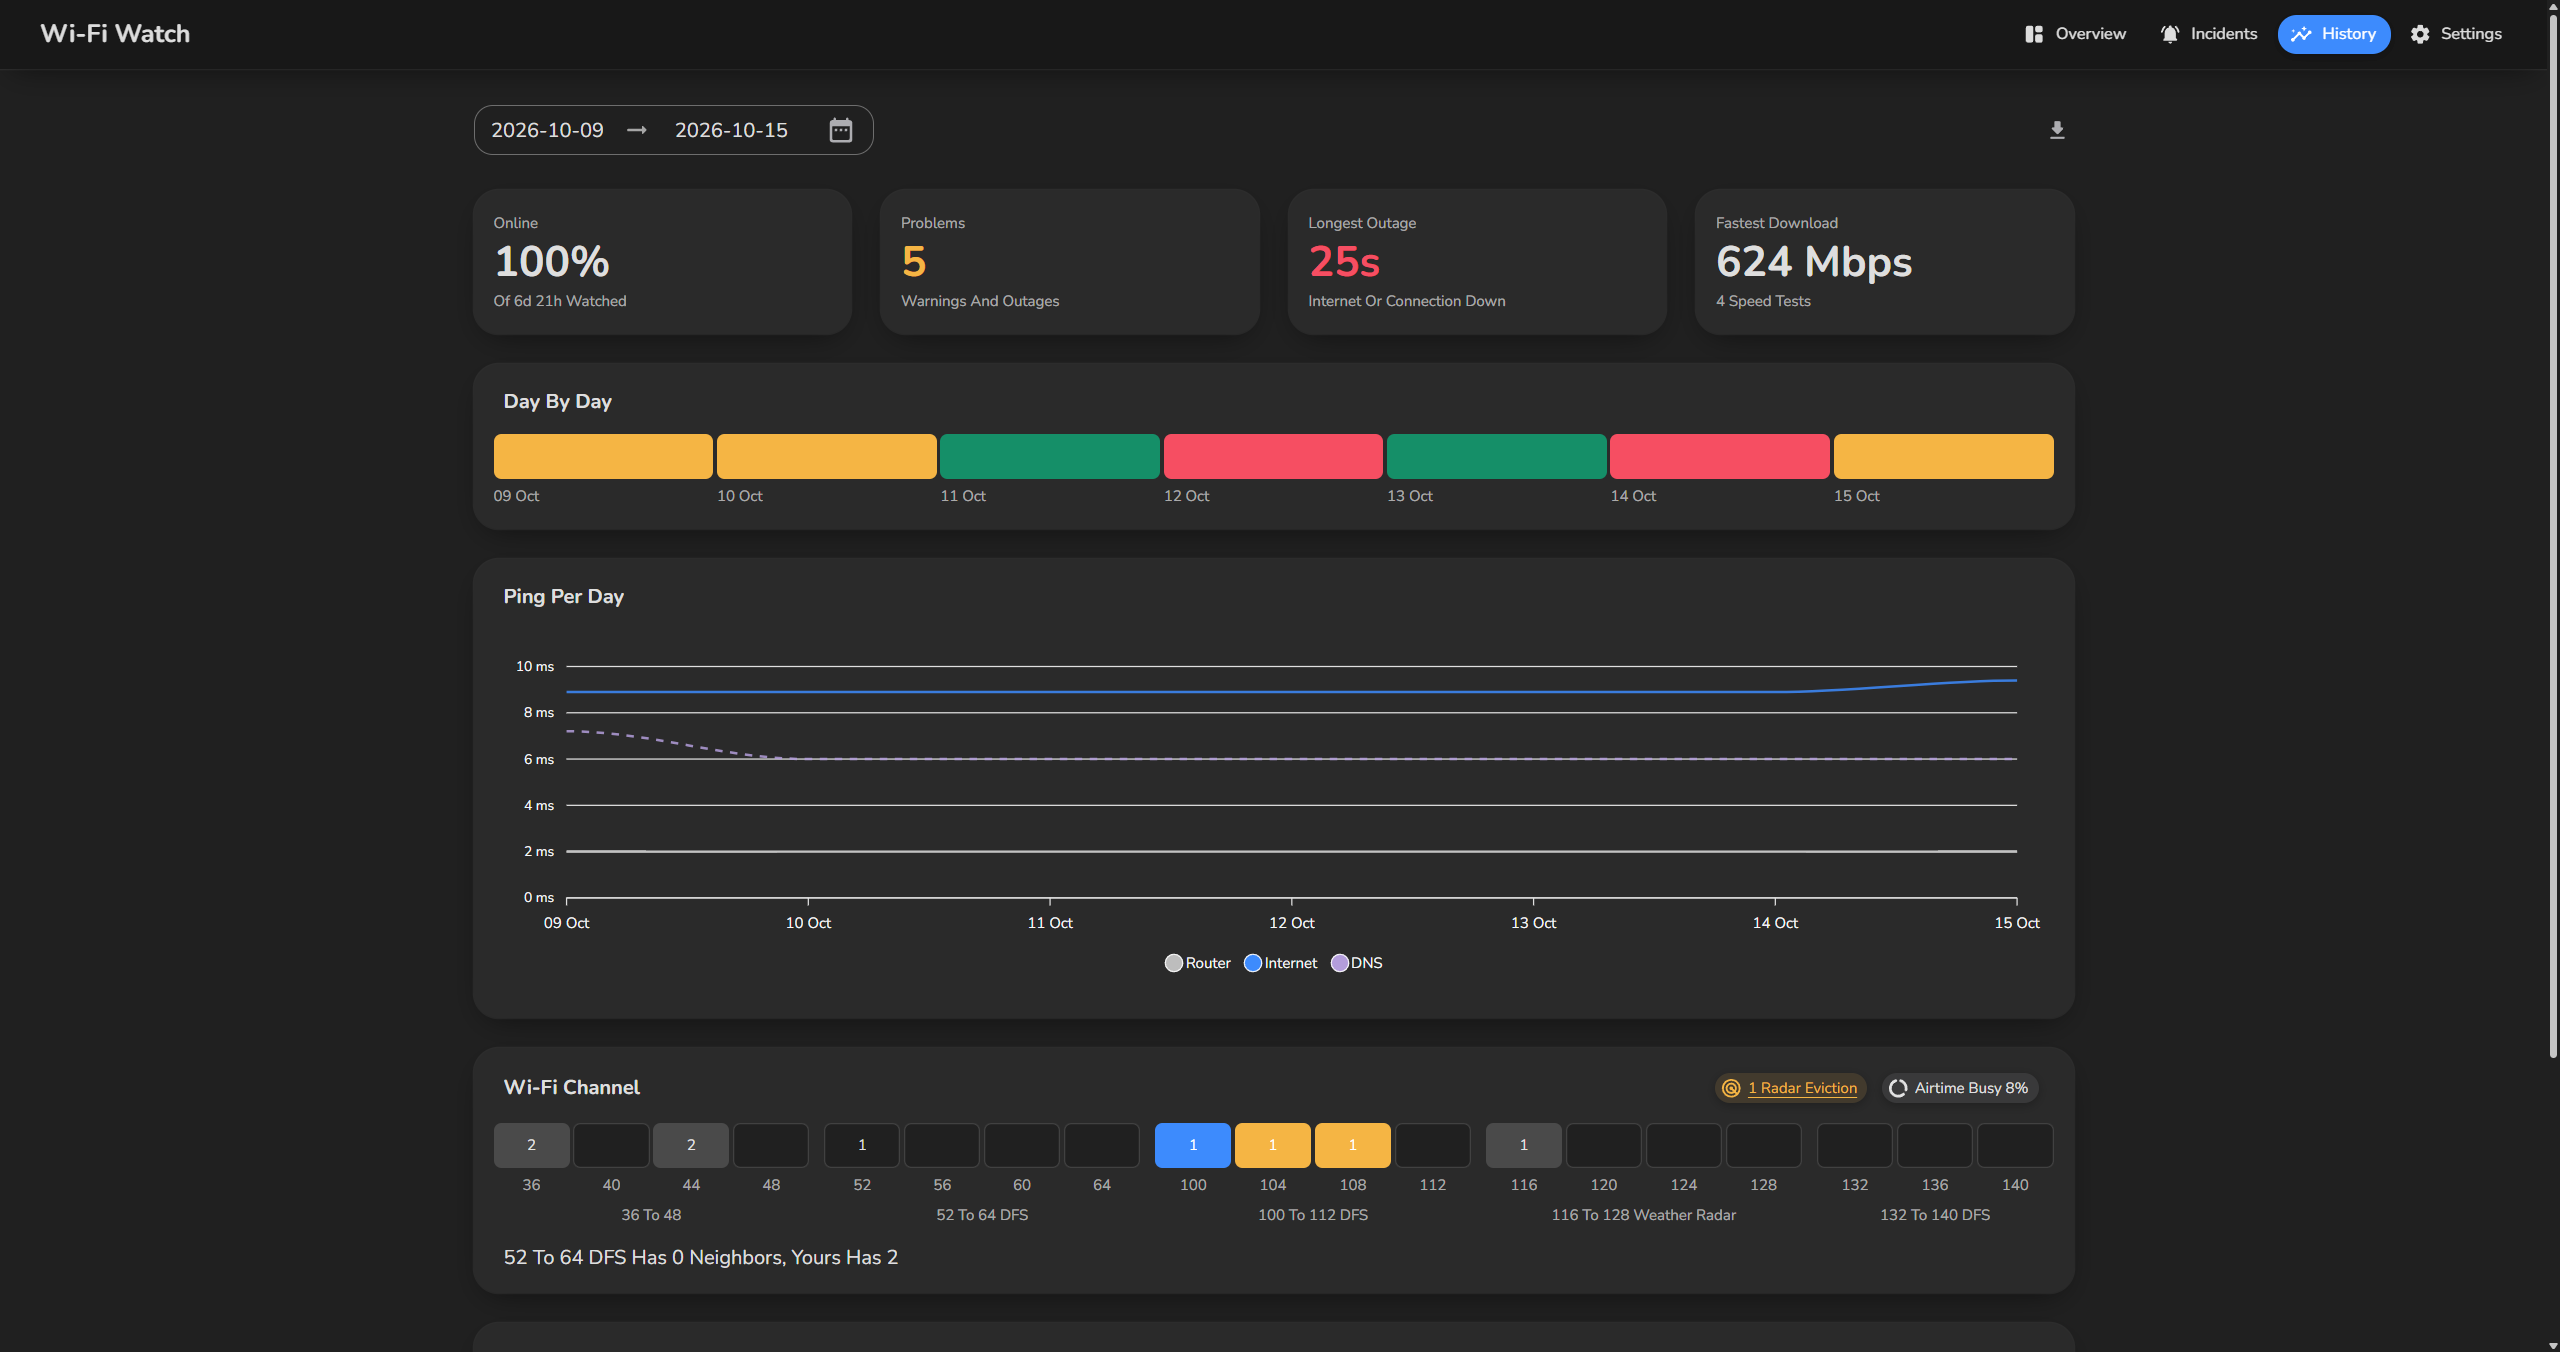
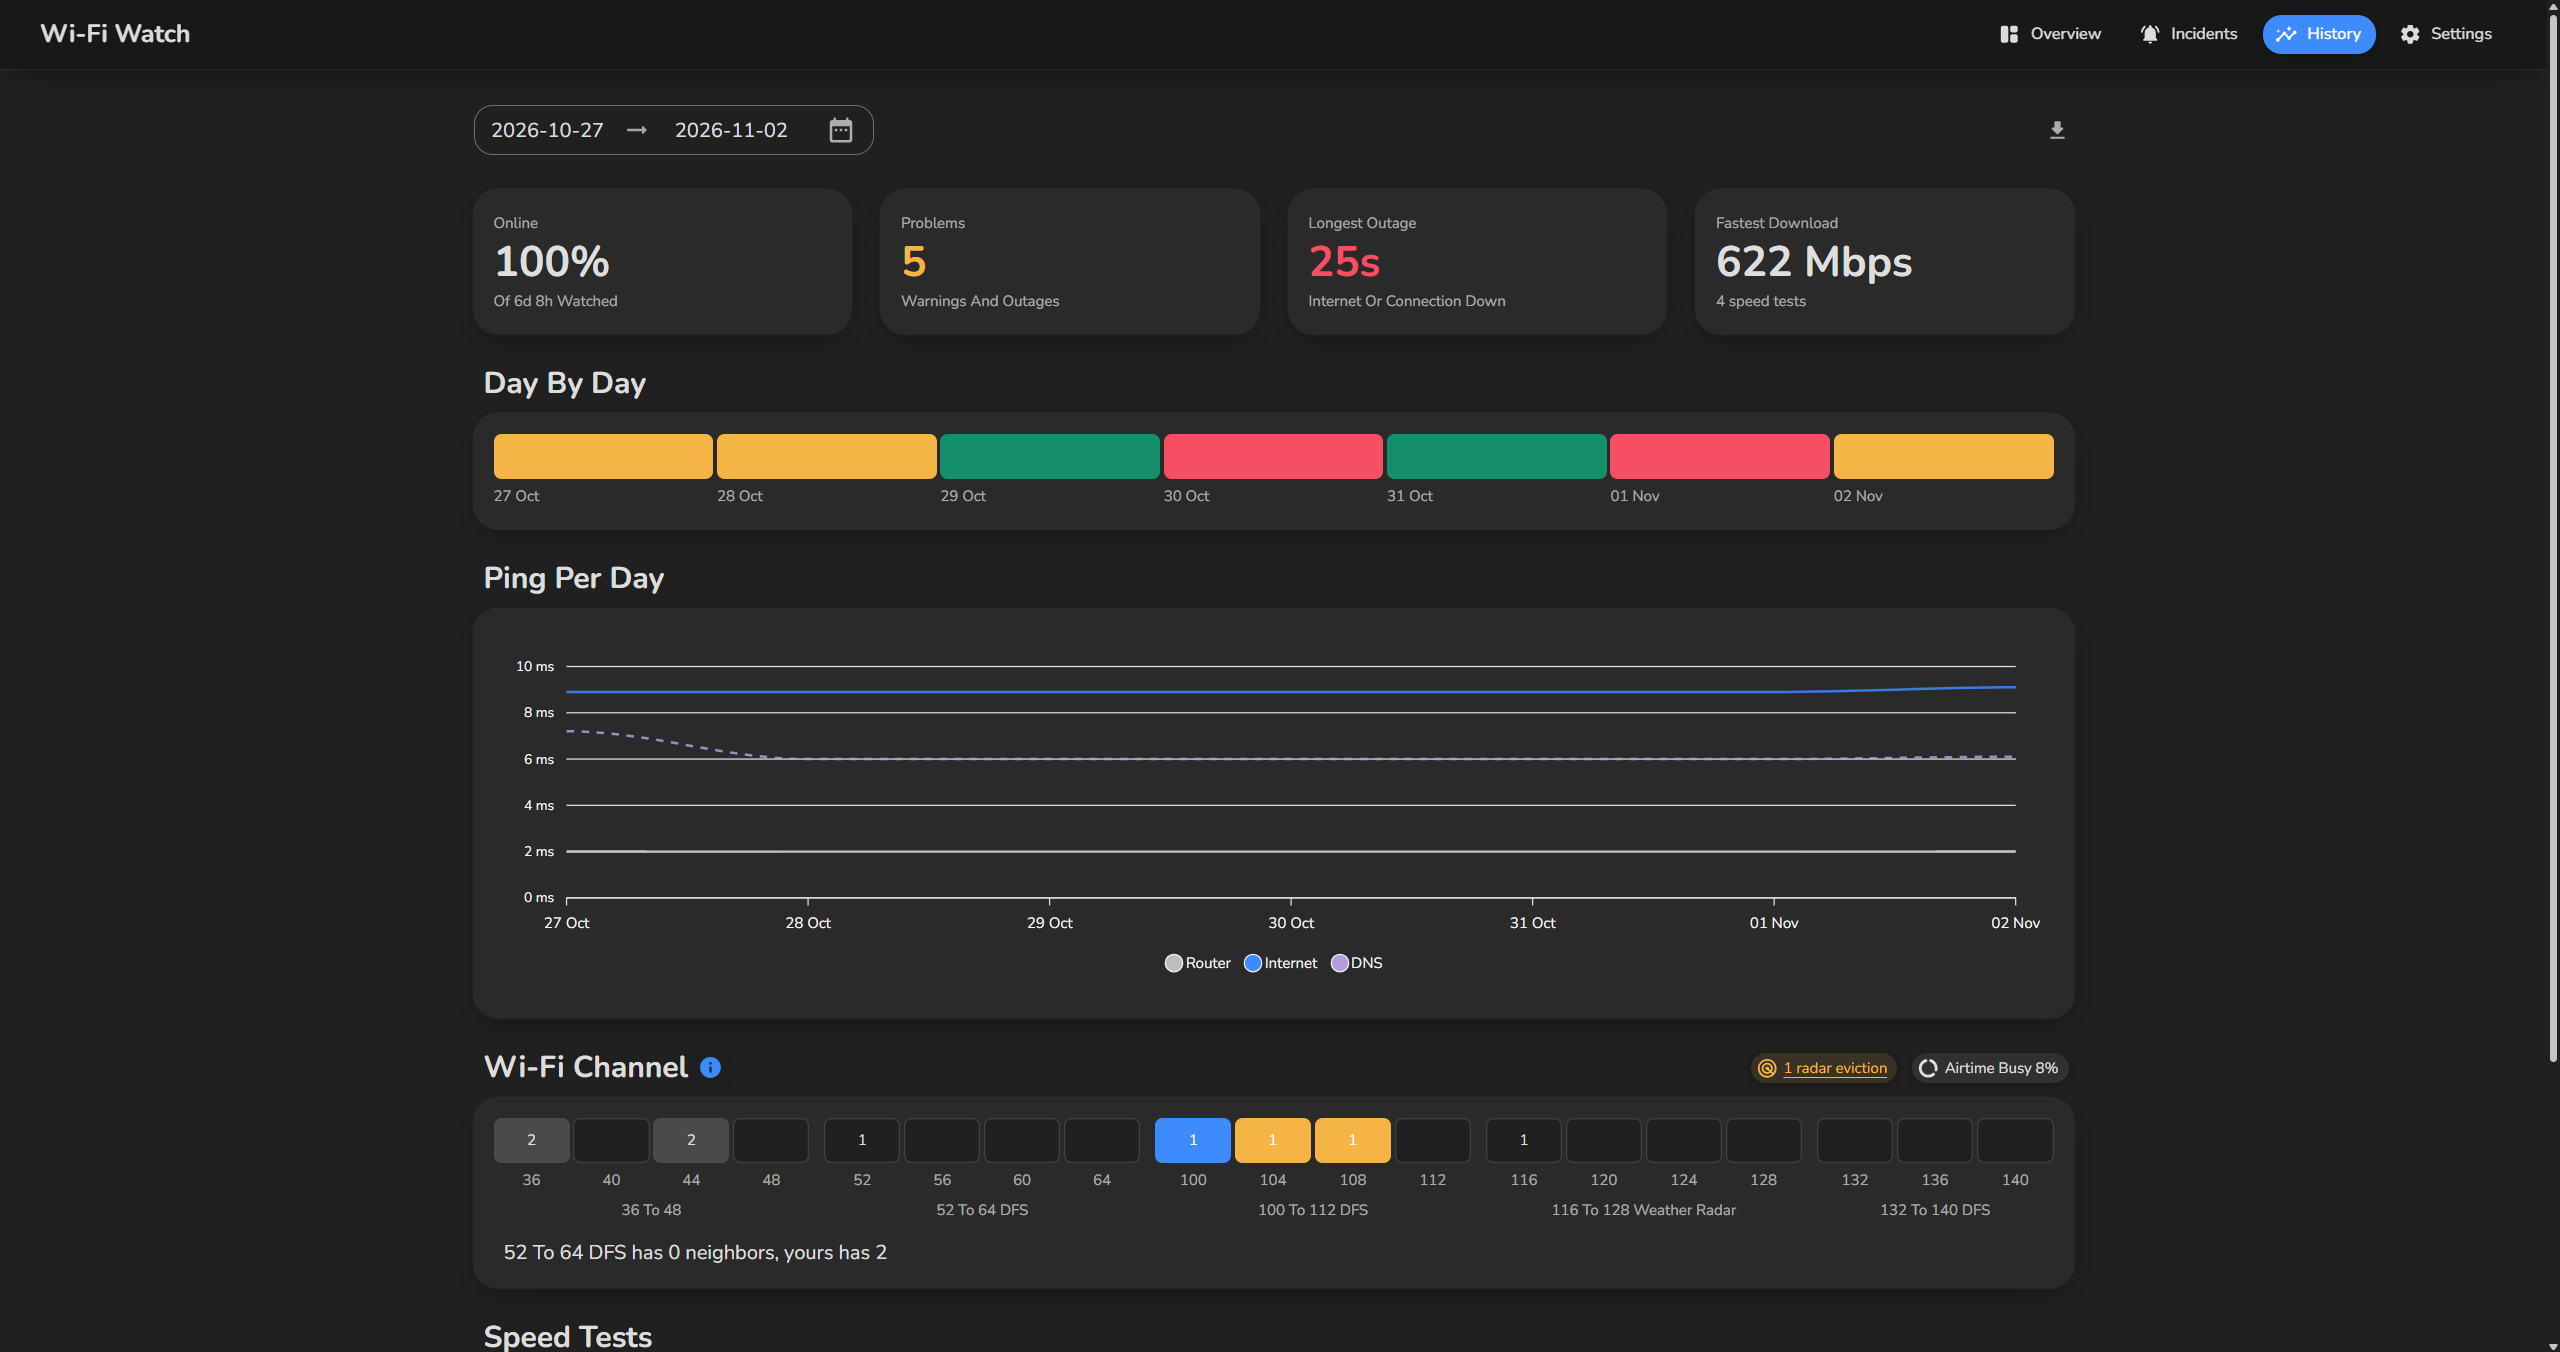
Escape Closes Dialogs and Fresh Screenshots

diff --git a/CLAUDE.md b/CLAUDE.md
@@ -209,7 +209,7 @@ The look follows LetsWatch: navigation in the app bar, section titles above pane
 - **Settings** is four sections: General switches, Problem Limits (three fields, each with a helper line, and an info icon on the title for the 2 bad minutes and 3× rule), Wi-Fi Adapter chips (hidden on a PC without Wi-Fi, inspected again on every visit so a new driver or power plan shows), About with version and updates.
 - **Cable and powerline.** History hides the Wi-Fi Channel panel for a range without Wi-Fi minutes. A powerline adapter is an Ethernet bridge Windows cannot see, so a powerline PC simply looks wired: its trouble shows as ping spikes, loss and drops on Home Network, whose wording and advice name powerline adapters. Detecting the adapters for sure would take raw Ethernet frames (HomePlug AV management on EtherType 0x88E1, G.hn has its own), which Windows only allows through a packet driver such as Npcap, whose free edition may not be bundled; even TP-Link's own tool needs WinPcap. So nothing guesses at powerline.
 - **Raw minutes** have no page; the History export holds every column.
-- **Dialogs** close with the corner X only (`CloseButton` on the provider, as in SoTF.Editor); their actions hold only what the dialog does: Fix, Test Again, Update Now. Closing the speed test cancels a running test (`Dispose`), and the update dialog hides its X, Escape and backdrop click while it downloads. Tables inside them are outlined with 10 px corners (`rounded-inner` over `--radius-inner`).
+- **Dialogs** close with the corner X only (`CloseButton` on the provider, as in SoTF.Editor) or Escape (`CloseOnEscapeKey`, without it a keyboard user had no way out); their actions hold only what the dialog does: Fix, Test Again, Update Now. Closing the speed test cancels a running test (`Dispose`), and the update dialog hides its X, Escape and backdrop click while it downloads. Tables inside them are outlined with 10 px corners (`rounded-inner` over `--radius-inner`).
 - **Tables** show row lines only, no stripes, no column borders and no line under the last row; an empty `DataTable` says Nothing Found. Segmented buttons are filled: blue selected, default the rest. Snackbars sit bottom right, clear of the page buttons.
 - **Headers** take an `Info` text, shown in a tooltip on a blue info icon after the title, for explanations that would crowd the page.
 - **Icons** are Rounded and filled (Error and Warning, never the Outline ones). MudBlazor's own defaults are overridden too: the date picker, pager, sort arrow, checkboxes and all four snackbar icons in `App.xaml.cs`.
@@ -274,5 +274,5 @@ Russian translations need wporgru's review; do not claim that they supplied them
 - **The update popup** can be seen by building with `-p:Version=0.9` and waiting about 70 s for the daily jobs.
 - **One instance only.** A second launch just shows the first window and exits. From v1.6 the installed app and a Debug build share `WiFiWatch.Show`, so a Debug launch only brings the installed window forward: ask the owner to exit the installed app from the tray first, never kill it. The Debug data folder keeps the two databases apart either way.
 - **The cable flow** can be rehearsed on a Wi-Fi PC with a temporary, never committed Debug switch at the end of `TrackLinkAsync` that reads the link (`Ethernet` or `Offline`, clearing `_routerAddress` for the latter) from `fake-link.txt` in the Debug data folder; set Router Ping to 1 in its `settings.json` to get a live Home Network incident within 3 minutes, then write and delete the file to walk unplugging, replugging and Wi-Fi. A generated wired week (Link `Ethernet`, no Wi-Fi columns, Home Network incidents) covers the pages.
-- **The sample week** is written by a throwaway file-based app (`#:package Microsoft.Data.Sqlite`) into a copy of an empty, migrated database, ending one minute ago: one Wi-Fi minute row per minute on "Home Wi-Fi", 5 GHz channel 100 (44 during a 36 minute radar eviction three days ago at 14:05), signal -55 dBm, link 1201 or 1081 Mbps, router about 2 ms, internet about 8.5 ms and 2.5 ms more from 19 to 23h, DNS about 6 ms against 11 ms for 1.1.1.1. Incidents: a 12 minute provider ping spike four hours ago, a 25 s Wi-Fi drop yesterday at 21:40 with a Windows reason, the eviction and its return, a 7 minute provider packet loss five days ago at 20:15 with a five hop trace, a 6 minute slow DNS six days ago at 09:30, a Started row. Neighbor scans every 5 minutes: the own access point with BSS Load around 8% plus seven neighbors (channels 36, 36, 104, 44, 52, a hidden one on 108, 116), each missing from a quarter of the scans. Four speed tests around 616 down and 296 up, grade A. The wired week is the same with Link `Ethernet`, empty Wi-Fi columns, router about 4 ms, a 9 minute Home Network ping spike instead of the eviction, the drop as "Offline For 25s, Back On Ethernet" and no neighbor rows.
-- **Screenshots** for the README: copy the sample week to the container's `%AppData%\WiFiWatch Debug\WiFiWatch.db` (`C:\Users\yusuf\AppData\Local\Packages\Claude_pzs8sxrjxfjjc\LocalCache\Roaming\WiFiWatch Debug`, delete any `WiFiWatch.db-*` there first) with `{}` as `settings.json`, launch the Debug build with the debugging port, move the window onto the primary screen (`SetWindowPos`) and maximize it (`ShowWindow` 3), which gives 2560x1352 captures. A Node script clicks the app bar buttons by their text, waits 2.5 s per page and saves `Page.captureScreenshot`; for History it clicks the picker's calendar button and then 7 Days. The PNGs replace those in `Screenshots/`.
+- **The sample week** is written by a throwaway file-based app into a copy of an empty, migrated database, ending one minute ago; `#:project` on `WiFiWatch.Data.csproj` with `#:property PublishAot=false` (EF refuses to build its model under the native AOT default) can migrate a fresh database through `WiFiWatch.TestDirectory` and write the rows with the real models, building every message from the real `AppText` templates: one Wi-Fi minute row per minute on "Home Wi-Fi", 5 GHz channel 100 (44 during a 36 minute radar eviction three days ago at 14:05), signal -55 dBm, link 1201 or 1081 Mbps, router about 2 ms, internet about 8.5 ms and 2.5 ms more from 19 to 23h, DNS about 6 ms against 11 ms for 1.1.1.1. Incidents: a 12 minute provider ping spike four hours ago, a 25 s Wi-Fi drop yesterday at 21:40 with a Windows reason, the eviction and its return, a 7 minute provider packet loss five days ago at 20:15 with a five hop trace, a 6 minute slow DNS six days ago at 09:30, a Started row. Neighbor scans every 5 minutes: the own access point with BSS Load around 8% plus seven neighbors (channels 36, 36, 104, 44, 52, a hidden one on 108, 116), each missing from a quarter of the scans. Four speed tests around 616 down and 296 up, grade A. The wired week is the same with Link `Ethernet`, empty Wi-Fi columns, router about 4 ms, a 9 minute Home Network ping spike instead of the eviction, the drop as "Offline For 25s, Back On Ethernet" and no neighbor rows.
+- **Screenshots** for the README: copy the sample week to the container's `%AppData%\WiFiWatch Debug\WiFiWatch.db` (`C:\Users\yusuf\AppData\Local\Packages\Claude_pzs8sxrjxfjjc\LocalCache\Roaming\WiFiWatch Debug`, delete any `WiFiWatch.db-*` there first) with `{}` as `settings.json`, launch the Debug build with the debugging port and capture through `Emulation.setDeviceMetricsOverride` at 2048 x 1082 with scale 1.25 and a `Page.captureScreenshot` clip of 2048 x 1081.6, which gives the 2560x1352 a maximized window gave on any monitor. A Node script clicks the app bar buttons by their text, waits 2.5 s per page and saves the captures; for History it clicks the picker's calendar button and then 7 Days. The live Overview and Settings show this PC's network name and adapter, so a PC whose network or driver should not end up in the README gets a temporary, never committed fake in `WiFiReader.ReadAsync` (a fixed "Home Wi-Fi" output, no neighbor scan) and `AdapterInspector.InspectAsync`. The PNGs replace those in `Screenshots/`.

diff --git a/docs/LOCALIZATION.md b/docs/LOCALIZATION.md
@@ -33,7 +33,7 @@ updates and closing summaries use the current language.
   tasks see the same selection. Its change event refreshes the navigation and
   recreates the current page, updates the tray, HTML language and error text.
   Page selection is retained. Settings save before broadcasting the change.
-- English is neutral `Strings.resx`; the five satellites have 385 translated
+- English is neutral `Strings.resx`; the five satellites have 388 translated
   entries each. Missing keys inherit English. `AppName` is deliberately neutral
   only and tests this fallback.
 - Numeric values retain the Windows number format. Human month/day names follow
@@ -110,30 +110,32 @@ deduplication, resource-key references and hardcoded Razor labels/text.
 
 ## Observed Results
 
-Local Ubuntu, .NET SDK 10.0.403:
+Version 2, Windows 11 (en-GB), .NET SDK 10.0.401:
 
-- Debug regression checks: passed, 9,621 assertions, including 48 rendering cases.
+- Debug and Release regression checks: passed, 9,730 assertions, including 48
+  rendering cases (v1.10 had 9,621).
 - Full solution Debug build: passed, 0 warnings and 0 errors.
-- Release regression checks: passed, 9,621 assertions.
 - Release publication: passed; `Verified localization bundle: nl;tr;de;es;ru`.
-  Output is the Windows single-file `WiFiWatch_v1.10.exe`.
-- CSharpier 1.3.0 verification: passed. `git diff --check`: passed.
-- Analyzer/style verification was attempted for all three application projects
-  and failed before analysis because this
-  host cannot open the build-host named pipe (`SocketException (13): Permission
-  denied`). No analyzer/style success is claimed.
+  Output is the Windows single-file `WiFiWatch_v2.0.exe`.
+- CSharpier 1.3.0 verification: passed.
+- Analyzer/style verification for all three projects: passed, apart from two
+  info-level suggestions already on v1.10 (`IDE0032` in `WiFiDbContext`,
+  `IDE0305` in `ChartTheme`).
+- Every `SelfTestPasses` passes headless with Russian selected.
 
-## Windows Checks Not Run Locally
+## Windows Checks
 
-Headless component rendering does not validate WPF/WebView2 interaction, native
-tray menus, real toast delivery, visual wrapping, screenshots, installed EXE
-startup/extraction, Windows culture discovery or the installed self-updater.
-Those require a Windows runtime. This Linux host only cross-builds/publishes the
-Windows EXE; it does not execute it.
+Run in the Debug app over the DevTools protocol: all four pages, the incident
+dialog opened with Enter and closed with Escape, the update dialog from the
+popup and from Settings with the blue Settings dot, the channel legend tooltip,
+and Turkish and Russian, where Nunito's Latin Extended and Cyrillic files load
+and the channel reading stays filled. Not run: real toast delivery, the native
+tray menu, the installed EXE's first start and the self-updater end to end,
+which needs a published v2.0 release.
 
 ## Translation Review
 
-All 385 Russian entries remain provisional and need wporgru's review, especially
+All 388 Russian entries remain provisional and need wporgru's review, especially
 technical terminology, advice, grammatical case and plural forms. They have not
 been supplied or approved by wporgru. Dutch, Turkish, German and Spanish likewise
 need native-speaker review. Coverage and runnable checks are complete for the
